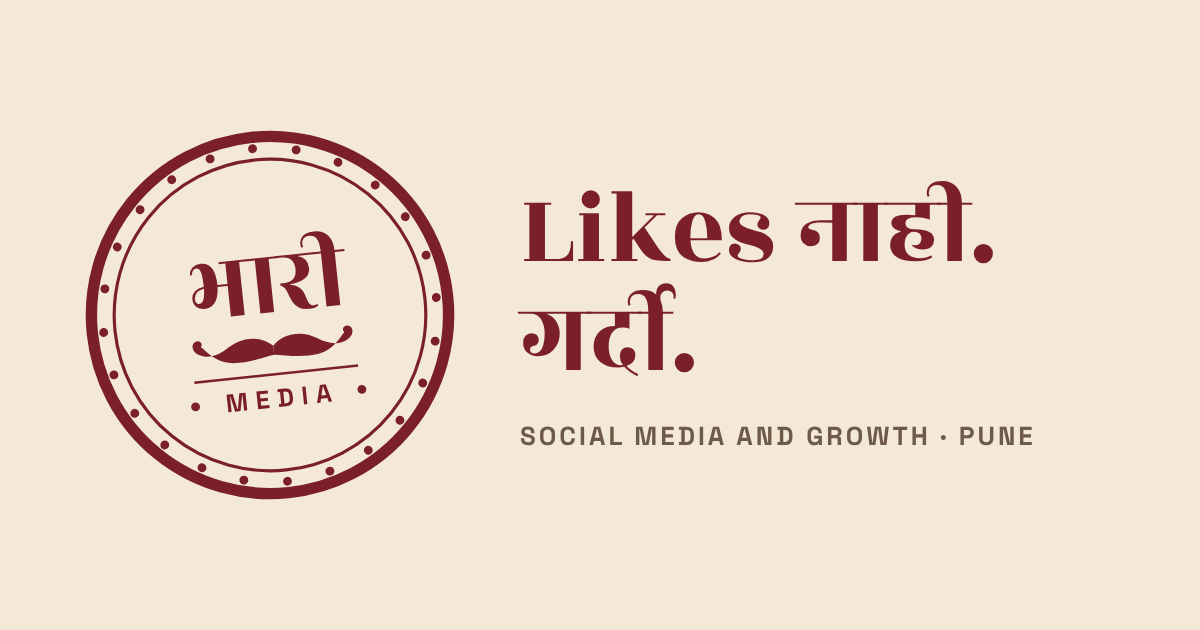
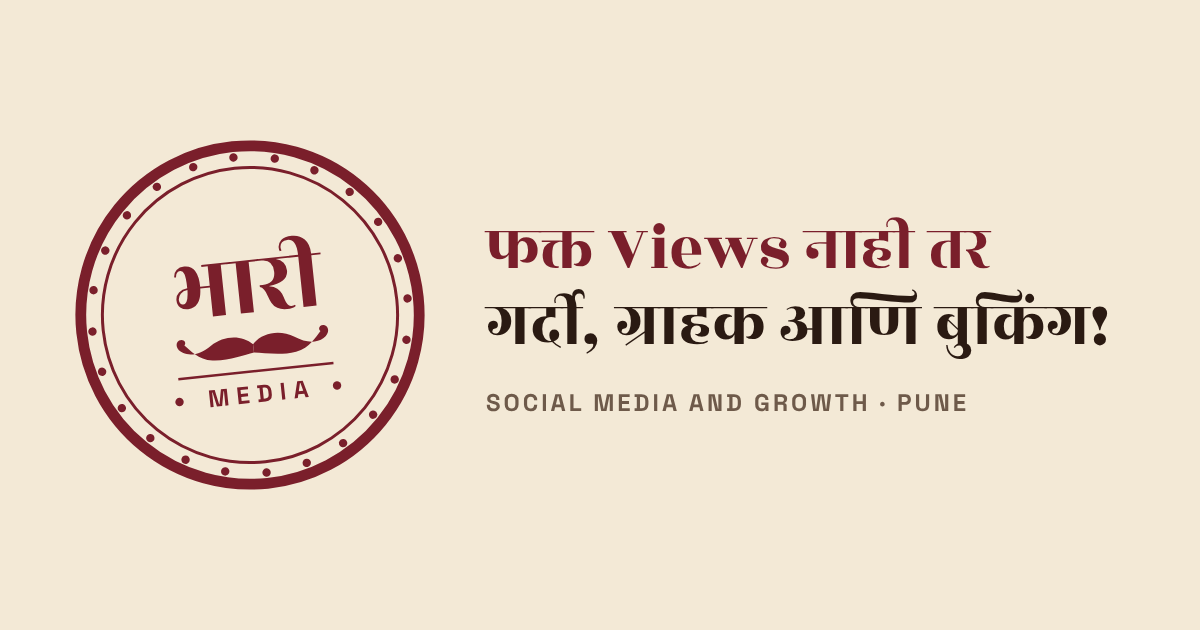
New hero headline and matching wording
- Hero: "फक्त Views नाही तर गर्दी, ग्राहक आणि बुकिंग! 🚀"
- Copy and meta tags now say "views" instead of "likes"/"followers"
- New share image with the headline
- Remove repeated word row under hero buttons

Claude-Session: https://claude.ai/code/session_01F4mFfMXjwSP4WautrNunCi

Changed region(s): [[0.0617, 0.181, 0.925, 0.8143], [0.4008, 0.2714, 0.8325, 0.4222], [0.8017, 0.6635, 0.8633, 0.7238]]

diff --git a/index.html b/index.html
@@ -4,9 +4,9 @@
 <meta charset="utf-8">
 <meta name="viewport" content="width=device-width, initial-scale=1">
 <title>भारी Media | Social media and growth agency, Pune</title>
-<meta name="description" content="भारी Media is a social media and growth agency for local businesses in Pune and Maharashtra. Restaurants, clinics, shops and real estate. Footfall, customers, bookings and sales. Not likes.">
+<meta name="description" content="भारी Media is a social media and growth agency for local businesses in Pune and Maharashtra. Restaurants, clinics, shops and real estate. Footfall, customers, bookings and sales. Not just views.">
 <meta property="og:title" content="भारी Media | Social media and growth agency, Pune">
-<meta property="og:description" content="Footfall, customers, bookings and sales. Not likes. Social media and growth for local businesses in Pune.">
+<meta property="og:description" content="फक्त Views नाही तर गर्दी, ग्राहक आणि बुकिंग. Social media and growth for local businesses in Pune.">
 <meta property="og:type" content="website">
 <meta property="og:url" content="https://bhaarimedia.com">
 <meta property="og:image" content="https://bhaarimedia.com/og.png">
@@ -55,7 +55,10 @@ header{position:sticky;top:0;z-index:10;background:rgba(251,246,236,.94);backdro
 /* hero */
 .hero{background:var(--c);padding:56px 0 0}
 .hero-grid{display:grid;grid-template-columns:1.25fr 1fr;gap:40px;align-items:center;padding-bottom:64px}
-.hero h1{font-family:'Rozha One',serif;font-weight:400;color:var(--m);font-size:clamp(48px,7.5vw,96px);line-height:1.05;margin:14px 0 22px}
+.hero h1{font-family:'Rozha One',serif;font-weight:400;color:var(--m);font-size:clamp(38px,5.4vw,74px);line-height:1.12;margin:14px 0 22px}
+.hero h1 .hl{color:var(--k)}
+.hero h1 .emo{font-size:.8em;display:inline-block;animation:lift 2.4s ease-in-out infinite}
+@keyframes lift{0%,100%{transform:translateY(0)}50%{transform:translateY(-8px) rotate(-6deg)}}
 .hero .stamp{width:100%;max-width:420px;justify-self:center;transform:rotate(-6deg)}
 .hero .stamp svg{width:100%;height:auto;display:block}
 .cta{display:flex;flex-wrap:wrap;gap:14px;margin-top:30px}
@@ -239,13 +242,12 @@ footer a{color:#CDBFA6}
 <div class="wrap hero-grid">
 <div>
 <div class="lab">Social media and growth agency · Pune</div>
-<h1>Likes नाही.<br>गर्दी.</h1>
-<p class="lead">We help local businesses in Pune and across Maharashtra get more people through the door. We plan for footfall, enquiries, bookings and sales. Not followers.</p>
+<h1>फक्त Views नाही तर<br><span class="hl">गर्दी, ग्राहक आणि बुकिंग!</span> <span class="emo" aria-hidden="true">🚀</span></h1>
+<p class="lead">We help local businesses in Pune and across Maharashtra get more people through the door. We plan for footfall, enquiries, bookings and sales. Not just views.</p>
 <div class="cta">
 <a class="btn btn-m" href="https://wa.me/917020008535?text=Hi%2C%20I%20want%20to%20know%20more%20about%20%E0%A4%AD%E0%A4%BE%E0%A4%B0%E0%A5%80%20Media">WhatsApp us</a>
 <a class="btn btn-o" href="#audit">Get a free audit</a>
 </div>
-<div class="words"><span>गर्दी</span><span>ग्राहक</span><span>बुकिंग</span><span>विक्री</span></div>
 </div>
 <div class="stamp" role="img" aria-label="भारी Media stamp"><svg xmlns="http://www.w3.org/2000/svg" viewBox="0 0 600 600" aria-label="भारी Media stamp"><g transform=""><circle cx="300" cy="300" r="282" fill="none" stroke="#7A1F2B" stroke-width="18"/><circle cx="300" cy="300" r="246" fill="none" stroke="#7A1F2B" stroke-width="5"/><g fill="#7A1F2B"><circle cx="300" cy="36" r="7" transform="rotate(0 300 300)"/><circle cx="300" cy="36" r="7" transform="rotate(15 300 300)"/><circle cx="300" cy="36" r="7" transform="rotate(30 300 300)"/><circle cx="300" cy="36" r="7" transform="rotate(45 300 300)"/><circle cx="300" cy="36" r="7" transform="rotate(60 300 300)"/><circle cx="300" cy="36" r="7" transform="rotate(75 300 300)"/><circle cx="300" cy="36" r="7" transform="rotate(90 300 300)"/><circle cx="300" cy="36" r="7" transform="rotate(105 300 300)"/><circle cx="300" cy="36" r="7" transform="rotate(120 300 300)"/><circle cx="300" cy="36" r="7" transform="rotate(135 300 300)"/><circle cx="300" cy="36" r="7" transform="rotate(150 300 300)"/><circle cx="300" cy="36" r="7" transform="rotate(165 300 300)"/><circle cx="300" cy="36" r="7" transform="rotate(180 300 300)"/><circle cx="300" cy="36" r="7" transform="rotate(195 300 300)"/><circle cx="300" cy="36" r="7" transform="rotate(210 300 300)"/><circle cx="300" cy="36" r="7" transform="rotate(225 300 300)"/><circle cx="300" cy="36" r="7" transform="rotate(240 300 300)"/><circle cx="300" cy="36" r="7" transform="rotate(255 300 300)"/><circle cx="300" cy="36" r="7" transform="rotate(270 300 300)"/><circle cx="300" cy="36" r="7" transform="rotate(285 300 300)"/><circle cx="300" cy="36" r="7" transform="rotate(300 300 300)"/><circle cx="300" cy="36" r="7" transform="rotate(315 300 300)"/><circle cx="300" cy="36" r="7" transform="rotate(330 300 300)"/><circle cx="300" cy="36" r="7" transform="rotate(345 300 300)"/></g><path fill="#7A1F2B" d="M275.82 208.64V211.76H260.22V296.00H238.38V247.33H222.16Q221.53 263.40 215.29 271.51Q209.05 279.62 198.60 279.62Q190.80 279.62 185.73 275.25Q180.66 270.88 180.66 263.01Q180.66 255.13 186.28 250.21Q191.89 245.30 200.63 244.52V243.43Q200.63 226.89 198.52 220.89Q196.42 214.88 191.89 214.88Q188.77 214.88 186.51 217.45Q184.25 220.03 183.94 224.86L180.97 224.71Q181.13 217.06 186.12 212.62Q191.11 208.17 199.22 208.17Q222.31 208.17 222.31 243.43V244.36H238.38V211.76H227.77V208.64ZM191.11 271.04Q199.85 271.04 200.63 247.80Q193.30 248.42 189.01 252.71Q184.72 257.00 184.72 263.24Q184.72 266.67 186.43 268.86Q188.15 271.04 191.11 271.04Z M322.62 208.64V211.76H307.02V296.00H285.18V211.76H269.58V208.64Z M380.81 208.64V211.76H352.42Q360.53 213.63 364.82 219.17Q369.11 224.71 369.11 232.51Q369.11 242.96 360.37 248.58Q351.64 254.19 336.97 255.13V255.75Q344.93 256.84 349.92 261.06Q354.91 265.27 356.86 270.34Q358.81 275.41 360.22 280.40Q361.62 285.39 364.04 288.75Q366.46 292.10 370.28 292.10Q374.10 292.10 376.44 290.70L377.38 292.88Q372.38 296.62 362.63 296.62Q352.88 296.62 346.57 292.80Q340.25 288.98 337.52 283.36Q334.79 277.75 332.92 271.98Q328.55 257.47 321.22 255.44V252.32H326.05Q347.58 252.32 347.58 232.51Q347.58 211.76 328.39 211.76H316.38V208.64Z M427.61 208.64V211.76H412.01V296.00H390.17V211.76H374.57V208.64H390.17Q390.01 194.60 386.27 188.28Q382.52 181.96 374.72 181.96Q369.11 181.96 365.75 184.93Q362.40 187.89 362.40 193.35Q362.40 196.00 363.49 198.50L360.53 199.59Q359.28 196.63 359.28 193.35Q359.28 186.33 364.82 181.18Q370.36 176.04 383.15 176.04Q395.94 176.04 403.90 184.46Q411.85 192.88 412.01 208.64Z"/><g transform="translate(150 318) scale(0.5)"><g fill="#7A1F2B"><path d="M300 62 C266 26 206 22 160 52 C126 75 92 82 64 66 C44 55 40 32 56 24 C70 18 82 32 72 42 C90 60 112 94 160 102 C214 110 266 94 300 90 Z"/><g transform="translate(600 0) scale(-1 1)"><path d="M300 62 C266 26 206 22 160 52 C126 75 92 82 64 66 C44 55 40 32 56 24 C70 18 82 32 72 42 C90 60 112 94 160 102 C214 110 266 94 300 90 Z"/></g></g></g><rect x="170" y="392" width="260" height="4" fill="#7A1F2B"/><path fill="#7A1F2B" d="M218.64 446.00V418.00H228.44L233.28 442.40H234.00L238.84 418.00H248.64V446.00H243.52V421.88H242.80L238.00 446.00H229.28L224.48 421.88H223.76V446.00Z M265.92 446.00V418.00H283.92V422.80H271.20V429.48H282.80V434.28H271.20V441.20H284.16V446.00Z M299.28 446.00V441.36H302.96V422.64H299.28V418.00H310.80Q316.44 418.00 319.38 420.86Q322.32 423.72 322.32 429.36V434.64Q322.32 440.28 319.38 443.14Q316.44 446.00 310.80 446.00ZM308.24 441.20H310.88Q314.08 441.20 315.56 439.52Q317.04 437.84 317.04 434.80V429.20Q317.04 426.12 315.56 424.46Q314.08 422.80 310.88 422.80H308.24Z M338.72 446.00V418.00H344.00V446.00Z M359.36 446.00 366.72 418.00H375.92L383.28 446.00H377.84L376.32 439.84H366.32L364.80 446.00ZM367.56 434.96H375.08L371.68 421.32H370.96Z"/><circle cx="168" cy="432" r="7" fill="#7A1F2B"/><circle cx="432" cy="432" r="7" fill="#7A1F2B"/></g></svg></div>
 </div>
@@ -255,9 +257,9 @@ footer a{color:#CDBFA6}
 <!-- WHAT WE TRACK -->
 <section>
 <div class="wrap">
-<div class="lab">01 · Results over likes</div>
+<div class="lab">01 · Results over views</div>
 <h2>We measure what pays your bills.</h2>
-<p class="lead">A page with likes but an empty shop on Monday is not working. These are the numbers we work on with you every month.</p>
+<p class="lead">A page with views but an empty shop on Monday is not working. These are the numbers we work on with you every month.</p>
 <div class="metrics">
 <div class="reveal metric"><div class="rz">गर्दी</div><p>Footfall at your door</p></div>
 <div class="reveal metric"><div class="rz">ग्राहक</div><p>New and repeat customers</p></div>
